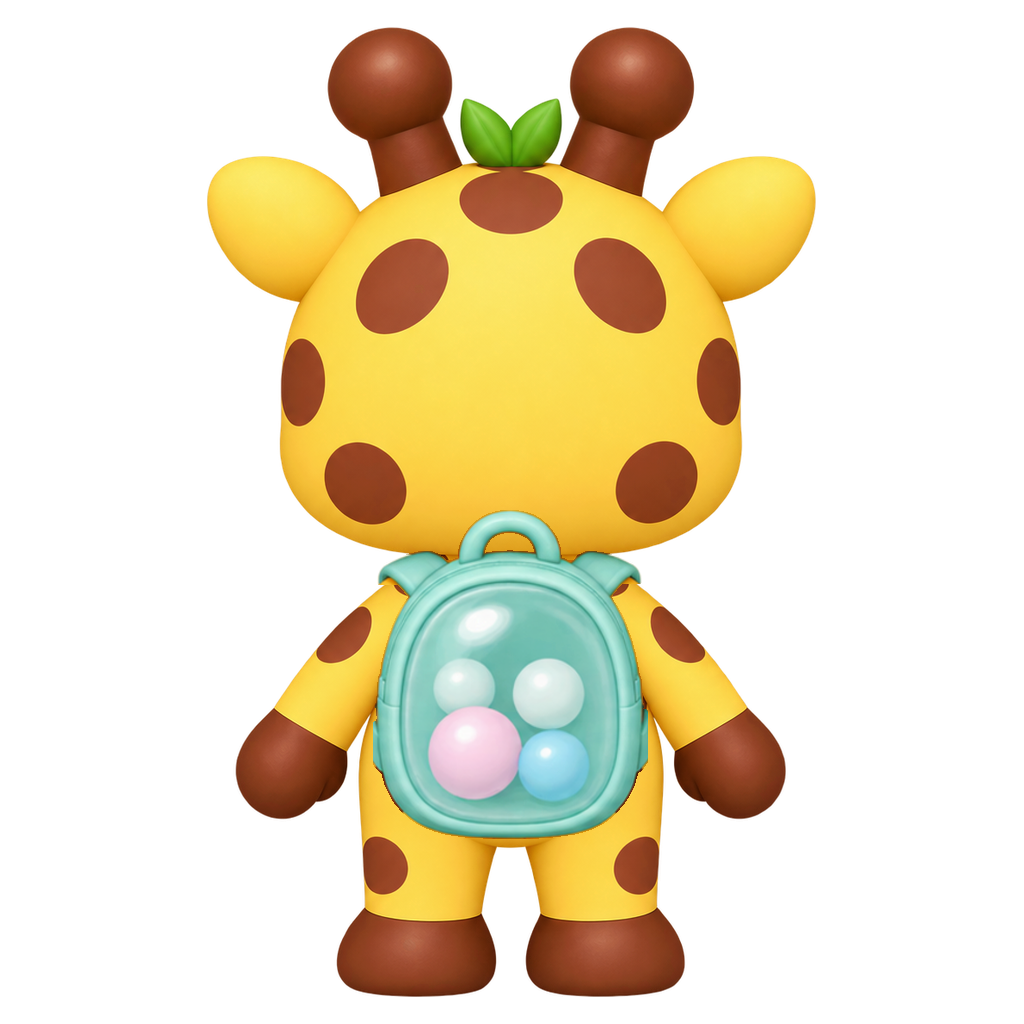
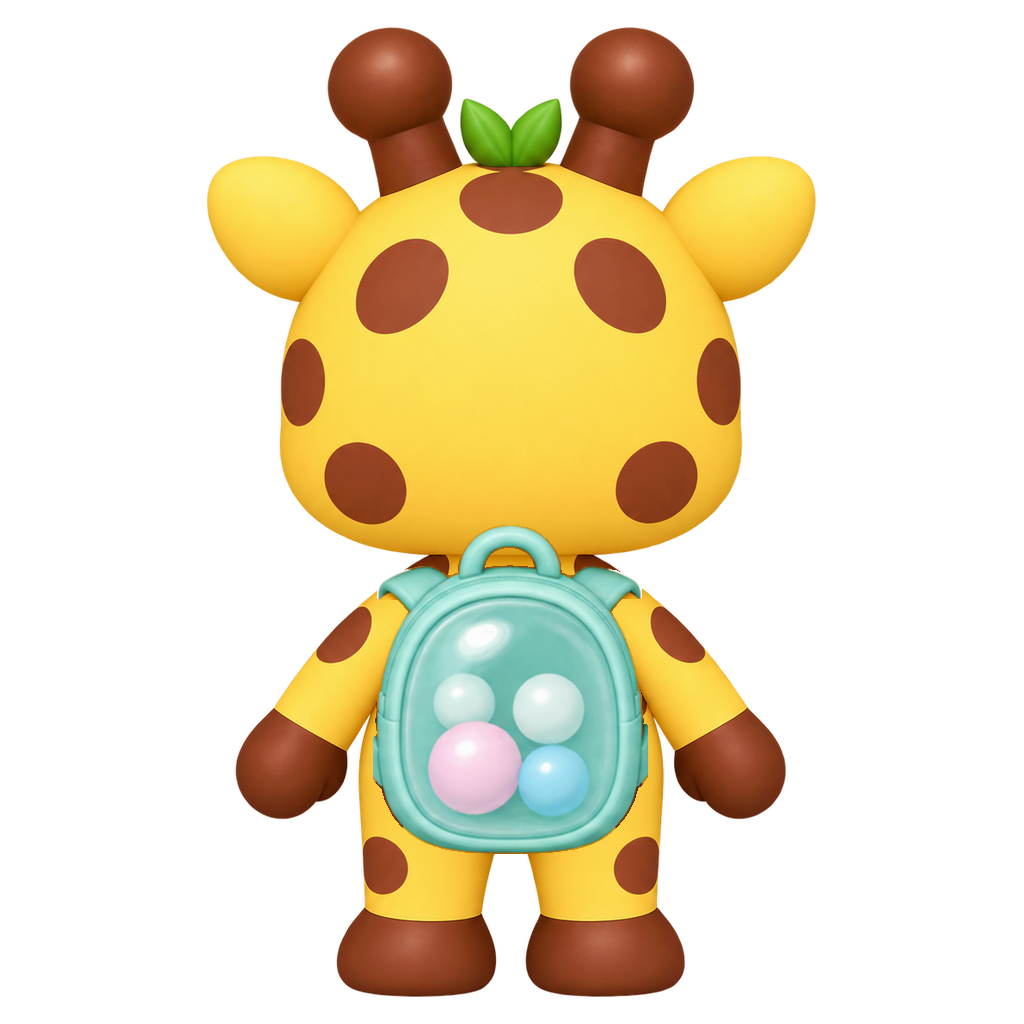
Keep the customization character fixed while applying accessories

Changed region(s): [[0.3438, 0.5, 0.6562, 0.8438], [0.625, 0.6875, 0.6562, 0.7188]]

diff --git a/app/turini-avatar.tsx b/app/turini-avatar.tsx
@@ -9,19 +9,17 @@ import {
   BAG_BASE,
   DEFAULT_CUSTOMIZATION,
   AVATAR_SLOTS,
-  TURNAROUND,
-  TURNAROUND_WEBP,
   VIEW_LABEL,
   assetPath,
   assetPathWebp,
   findItem,
   isItemUnlocked,
   itemsForSlot,
+  placementFor,
   remainingLabel,
   requirementLabel,
   requirementProgress,
   wornBackPreview,
-  wornFrontPreview,
   wornPreview,
   type AvatarItem,
   type AvatarSlot,
@@ -269,38 +267,32 @@ function WornThumb({ item }: { item: AvatarItem }) {
   );
 }
 
-/* ──────────────────────────────────────────────────────────────
-   회전 미리보기 — 가방은 등 뒤라서 정면으로는 잘 보이지 않습니다.
-   ────────────────────────────────────────────────────────────── */
-
-function TurnaroundView({ view, bag, bagMode }: { view: TurniView; bag: AvatarItem | null; bagMode: boolean }) {
-  const [failedSrc, setFailedSrc] = useState<string | null>(null);
-  const worn = bag && bagMode
-    ? view === "front" ? wornFrontPreview(bag) : wornBackPreview(bag)
-    : null;
-  const src = worn ?? BAG_BASE[view];
-  if (bagMode) {
-    return (
-      <span className="turini-dress__turn">
-        <Image
-          key={src}
-          src={failedSrc === src ? BAG_BASE[view] : src}
-          alt=""
-          fill
-          unoptimized
-          sizes="(max-width: 768px) 100vw, 520px"
-          draggable={false}
-          onError={() => setFailedSrc(src)}
-        />
-      </span>
-    );
-  }
+/* 뒷면 그림 위에 머리·목 장식만 얹습니다. 안경은 얼굴 뒤에서 보이지 않습니다. */
+function PreviewAccessory({ item }: { item: AvatarItem }) {
+  const place = placementFor(item, "editor-back");
   return (
-    <span className="turini-dress__turn">
-      <picture>
-        <source srcSet={TURNAROUND_WEBP[view]} type="image/webp" />
-        <img src={TURNAROUND[view]} alt="" decoding="async" draggable={false} />
-      </picture>
+    <span className={`turini-dress__accessory turini-dress__accessory--${item.slot}`}
+      style={{ left: `${place.left}%`, top: `${place.top}%`, width: `${place.size}%` }}>
+      <ItemImage item={item} eager />
+    </span>
+  );
+}
+
+function TurnaroundView({ customization }: { customization: TuriniCustomization }) {
+  const bag = findItem(customization.bag);
+  const worn = bag ? wornBackPreview(bag) : null;
+  const accessories = (["neck", "hat"] as const)
+    .map((slot) => findItem(customization[slot]))
+    .filter((item): item is AvatarItem => Boolean(item));
+  return (
+    <span className="turini-dress__turn" aria-hidden="true">
+      <Image className="turini-dress__base" src={BAG_BASE.back} alt="" fill unoptimized
+        sizes="(max-width: 768px) 66vw, 211px" draggable={false} />
+      {worn ? (
+        <Image key={worn} className="turini-dress__bag-back" src={worn} alt="" fill unoptimized
+          sizes="(max-width: 768px) 66vw, 211px" draggable={false} />
+      ) : null}
+      {accessories.map((item) => <PreviewAccessory key={item.id} item={item} />)}
     </span>
   );
 }
@@ -335,7 +327,6 @@ export function TuriniDressUp({
   const slotItems = itemsForSlot(slot);
   const visible = showLocked ? slotItems : slotItems.filter((entry) => unlockedIds.has(entry.id));
   const slotName = AVATAR_SLOTS.find((entry) => entry.key === slot)?.name ?? "";
-  const bag = findItem(customization.bag);
   const background = findItem(customization.background);
 
   const choose = (entry: AvatarItem) => {
@@ -362,21 +353,18 @@ export function TuriniDressUp({
       </div>
 
       <div className="turini-dress__stage">
-        {view === "front" && slot !== "bag" ? (
-          <TuriniAvatar
-            customization={customization}
-            className="turini-avatar--editor"
-            label="꾸미는 중인 나의 투리니"
-            scene
-          />
+        {view === "front" ? (
+          <TuriniAvatar customization={customization} className="turini-avatar--editor"
+            label="꾸미는 중인 나의 투리니 정면" animated={false} scene />
         ) : (
-          <div className="turini-avatar turini-avatar--scene turini-avatar--editor turini-avatar--turn">
+          <div className="turini-avatar turini-avatar--scene turini-avatar--editor turini-avatar--turn"
+            role="img" aria-label="꾸미는 중인 나의 투리니 뒷면">
             {background ? (
               <span className="turini-avatar__background" aria-hidden="true">
                 <ItemImage item={background} eager />
               </span>
             ) : null}
-            <TurnaroundView view={view} bag={bag} bagMode={slot === "bag"} />
+            <TurnaroundView customization={customization} />
           </div>
         )}
 
@@ -394,8 +382,8 @@ export function TuriniDressUp({
             </button>
           ))}
         </div>
-        {view !== "front" && slot !== "bag" ? (
-          <p className="turini-dress__view-note">등이 보이는 각도예요. 전체 모습은 정면에서 볼 수 있어요.</p>
+        {view !== "front" && slot === "glasses" ? (
+          <p className="turini-dress__view-note">안경은 얼굴 쪽에 착용되어 뒷면에서는 보이지 않아요.</p>
         ) : null}
       </div>
 
@@ -408,11 +396,7 @@ export function TuriniDressUp({
             aria-selected={slot === key}
             className="turini-dress__tab"
             data-active={slot === key ? "true" : undefined}
-            onClick={() => {
-              setSlot(key);
-              // 가방은 등 뒤라 정면으로는 잘 보이지 않습니다. 가방 탭은 승인된 뒷면을 엽니다.
-              setView(key === "bag" ? "back" : "front");
-            }}
+            onClick={() => setSlot(key)}
           >
             {name}
           </button>

diff --git a/app/avatar-items.ts b/app/avatar-items.ts
@@ -211,6 +211,12 @@ export const SLOT_ANCHOR: Record<AvatarSlot, SlotAnchor> = {
   background: { x: 50, y: 50, gx: 0.5, gy: 0.5, span: 100, fit: "width" },
 };
 
+/** 뒷면 기본 그림(1024px)의 장식 기준점. 선택 카드에는 쓰지 않습니다. */
+export const EDITOR_BACK_ANCHOR: Record<"hat" | "neck", SlotAnchor> = {
+  hat: { x: 50, y: 27, gx: 0.5, gy: 1, span: 40, fit: "width" },
+  neck: { x: 50, y: 55, gx: 0.5, gy: 0, span: 27, fit: "width", spanY: 22 },
+};
+
 /** 가방 어깨끈 색 — 각 가방 그림에서 가장 많이 쓰인 색을 재서 넣었습니다. */
 export const BAG_STRAP_COLOR: Record<string, string> = {
   "bag:black_business": "#1f1f1f",
@@ -237,11 +243,12 @@ export type Placement = { left: number; top: number; size: number };
 export function placementFor(
   item: { id: string; slot: AvatarSlot },
   /** "rig" = 분리 파츠 캐릭터, "sprite" = 12프레임 아틀라스 */
-  space: "rig" | "sprite" = "rig",
+  space: "rig" | "sprite" | "editor-back" = "rig",
 ): Placement {
   if (item.slot === "background") return { left: 0, top: 0, size: 100 };
-  const anchor =
-    space === "sprite" && item.slot in SPRITE_ANCHOR
+  const anchor = space === "editor-back" && item.slot in EDITOR_BACK_ANCHOR
+    ? EDITOR_BACK_ANCHOR[item.slot as "hat" | "neck"]
+    : space === "sprite" && item.slot in SPRITE_ANCHOR
       ? SPRITE_ANCHOR[item.slot as SpriteSlot]
       : SLOT_ANCHOR[item.slot];
 

diff --git a/app/turini-avatar.css b/app/turini-avatar.css
@@ -107,6 +107,28 @@
   height: 100%;
   object-fit: contain;
 }
+.turini-dress__base { z-index: 1; }
+/* 기존 착용 완성본에서 가방이 그려진 자리만 보여 줍니다.
+   캐릭터 몸과 얼굴은 항상 위의 동일한 기본 그림입니다. */
+.turini-dress__bag-back { z-index: 2; }
+.turini-dress__bag-back {
+  clip-path: polygon(32% 48%, 68% 48%, 70% 83%, 30% 83%);
+}
+.turini-dress__accessory {
+  position: absolute;
+  display: block;
+  aspect-ratio: 1;
+  z-index: 3;
+}
+.turini-dress__accessory--glasses { z-index: 4; }
+.turini-dress__accessory--hat { z-index: 5; }
+.turini-dress__accessory picture,
+.turini-dress__accessory img {
+  display: block;
+  width: 100%;
+  height: 100%;
+  object-fit: contain;
+}
 /* 완전 후면에서는 등 한가운데에 가방을 올립니다.
    (뒷모습 그림 768px 기준 몸 중심 x≈384, 등 범위 y≈366~640 을 재서 맞춘 값) */
 .turini-dress__turn-bag {
